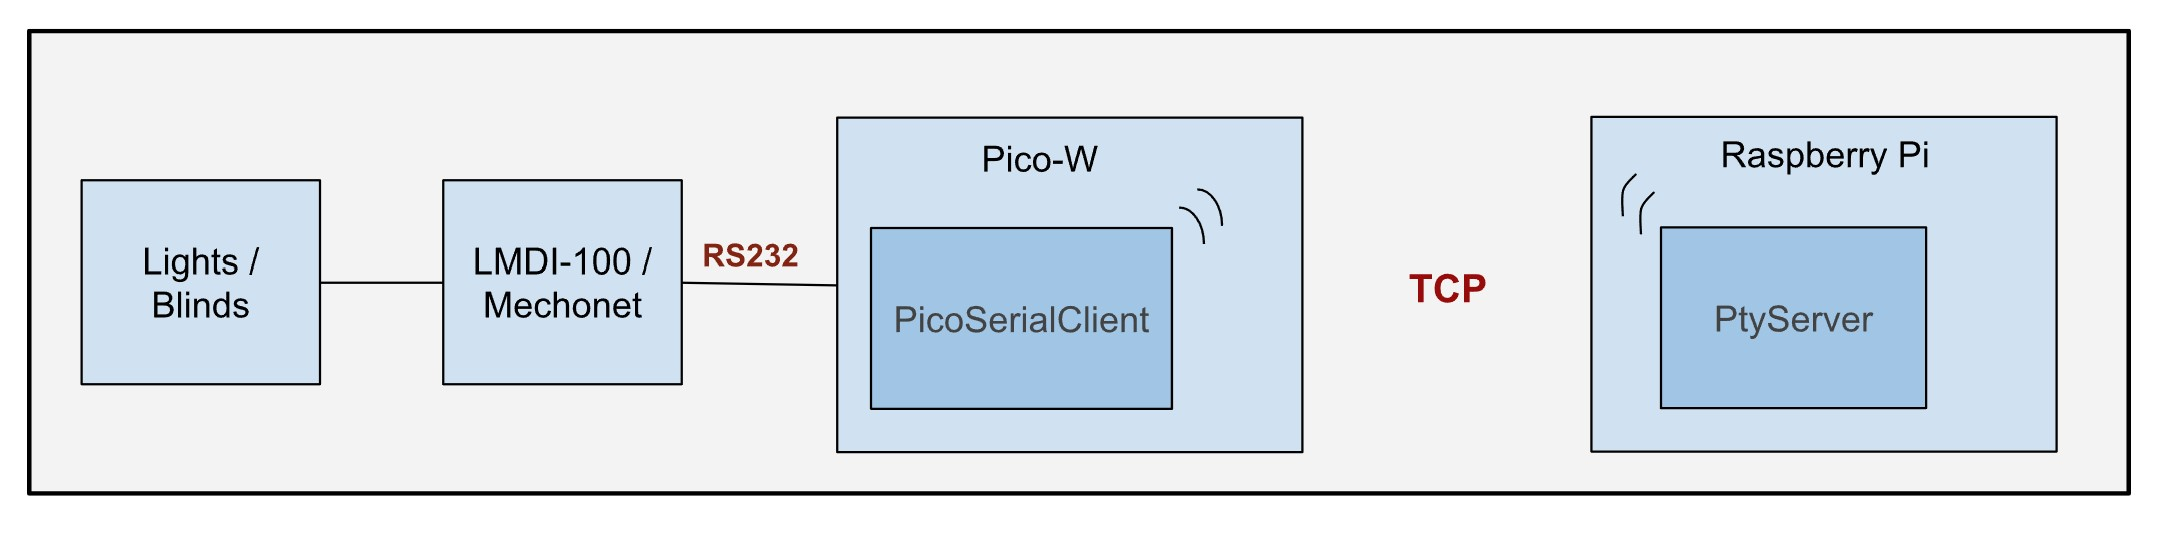
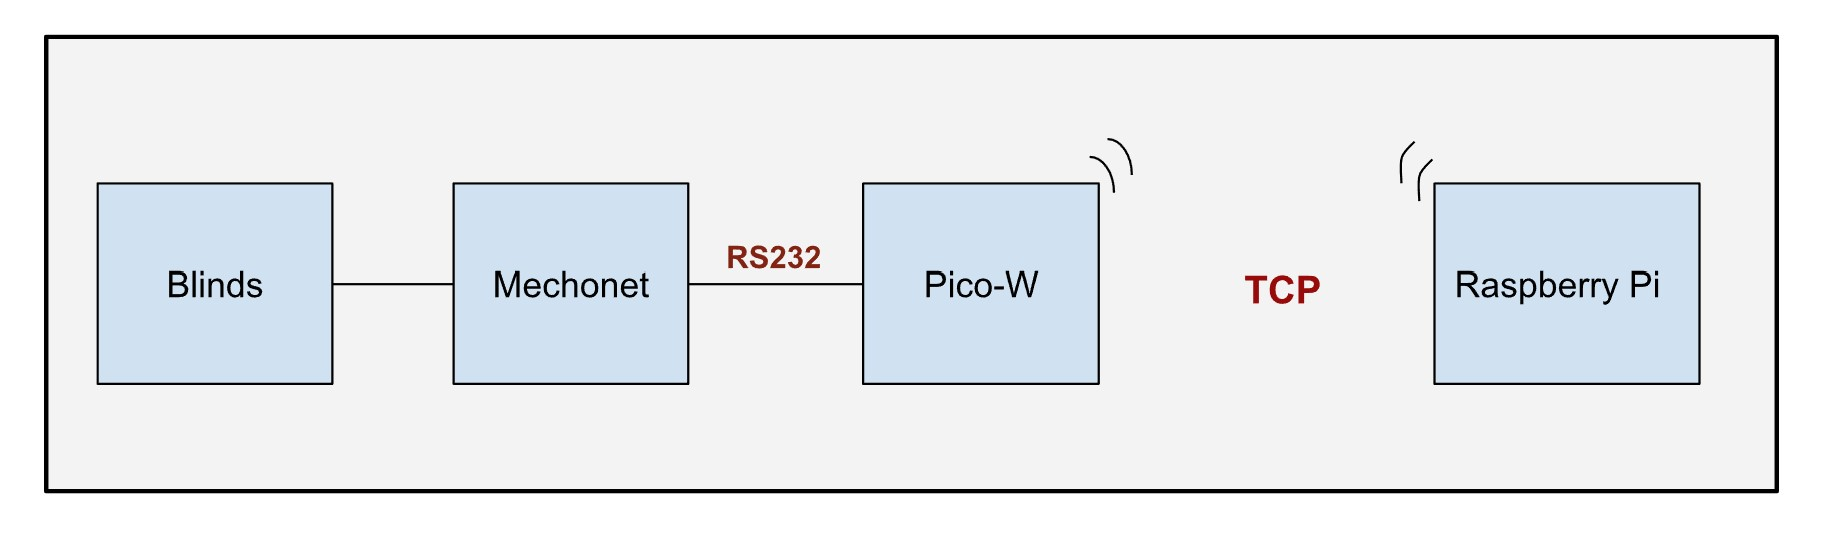
Added blinds control video to readme

diff --git a/bin/remote-serial-pico.js b/bin/remote-serial-pico.js
@@ -25,7 +25,6 @@ sudo udevadm trigger
 
 
 function runCommands(commands) {
-  console.log(`Executing: ${commands}`);
   execSync(commands, { stdio: 'inherit', shell: true });
 }
 

diff --git a/src/PicoSerialClient.py b/src/PicoSerialClient.py
@@ -87,6 +87,7 @@ try:
 
             if data:	# Valid data received from TCP Server
                 cmd = data.decode()
+                uart1.write(cmd)
                 blink_led()
                 #print("TCP: ", cmd)
 

diff --git a/README.md b/README.md
@@ -1,11 +1,8 @@
 # About
 Ever need a serial port far away from your Raspberry Pi? Wish you could use WiFi to talk to a serial device without having to run a wire? This project is for you.
 
-## Install for use
-<div style="padding: 5%;"> <!-- Adjust the padding value as needed -->
-    <img src="./img/3.GIF" alt="Pico-Pi connection" width="40%" align="right"/>
-</div>
-
+## Installation
+<img src="./img/3.GIF" alt="Pico-Pi connection" width="40%" style="float:right; margin: 10%;"/>
 
 ```
 npm install -g remote-serial-pico
@@ -46,7 +43,10 @@ Designed to facilitate communication between a remote device (such as a Raspberr
 
 ## Visual Overview
 * This diagram provides a general overview of the project. For more infomation checkout [detailed diagram](img/2.jpg).
-    ![general diagram](img/1.jpg)
+    ![block diagram](img/1.jpg)
+
+* Click below to watch the Smart Window Blinds video:
+    [![Watch the video](img/4.jpg)](https://youtu.be/M36LoMouvPg)
 
 ## Credits
 Special thanks to [Medical Informatics Engineering](https://www.mieweb.com/) for their support throughout the development of this project, especially to [Doug Horner](https://github.com/horner) for his invaluable guidance.
